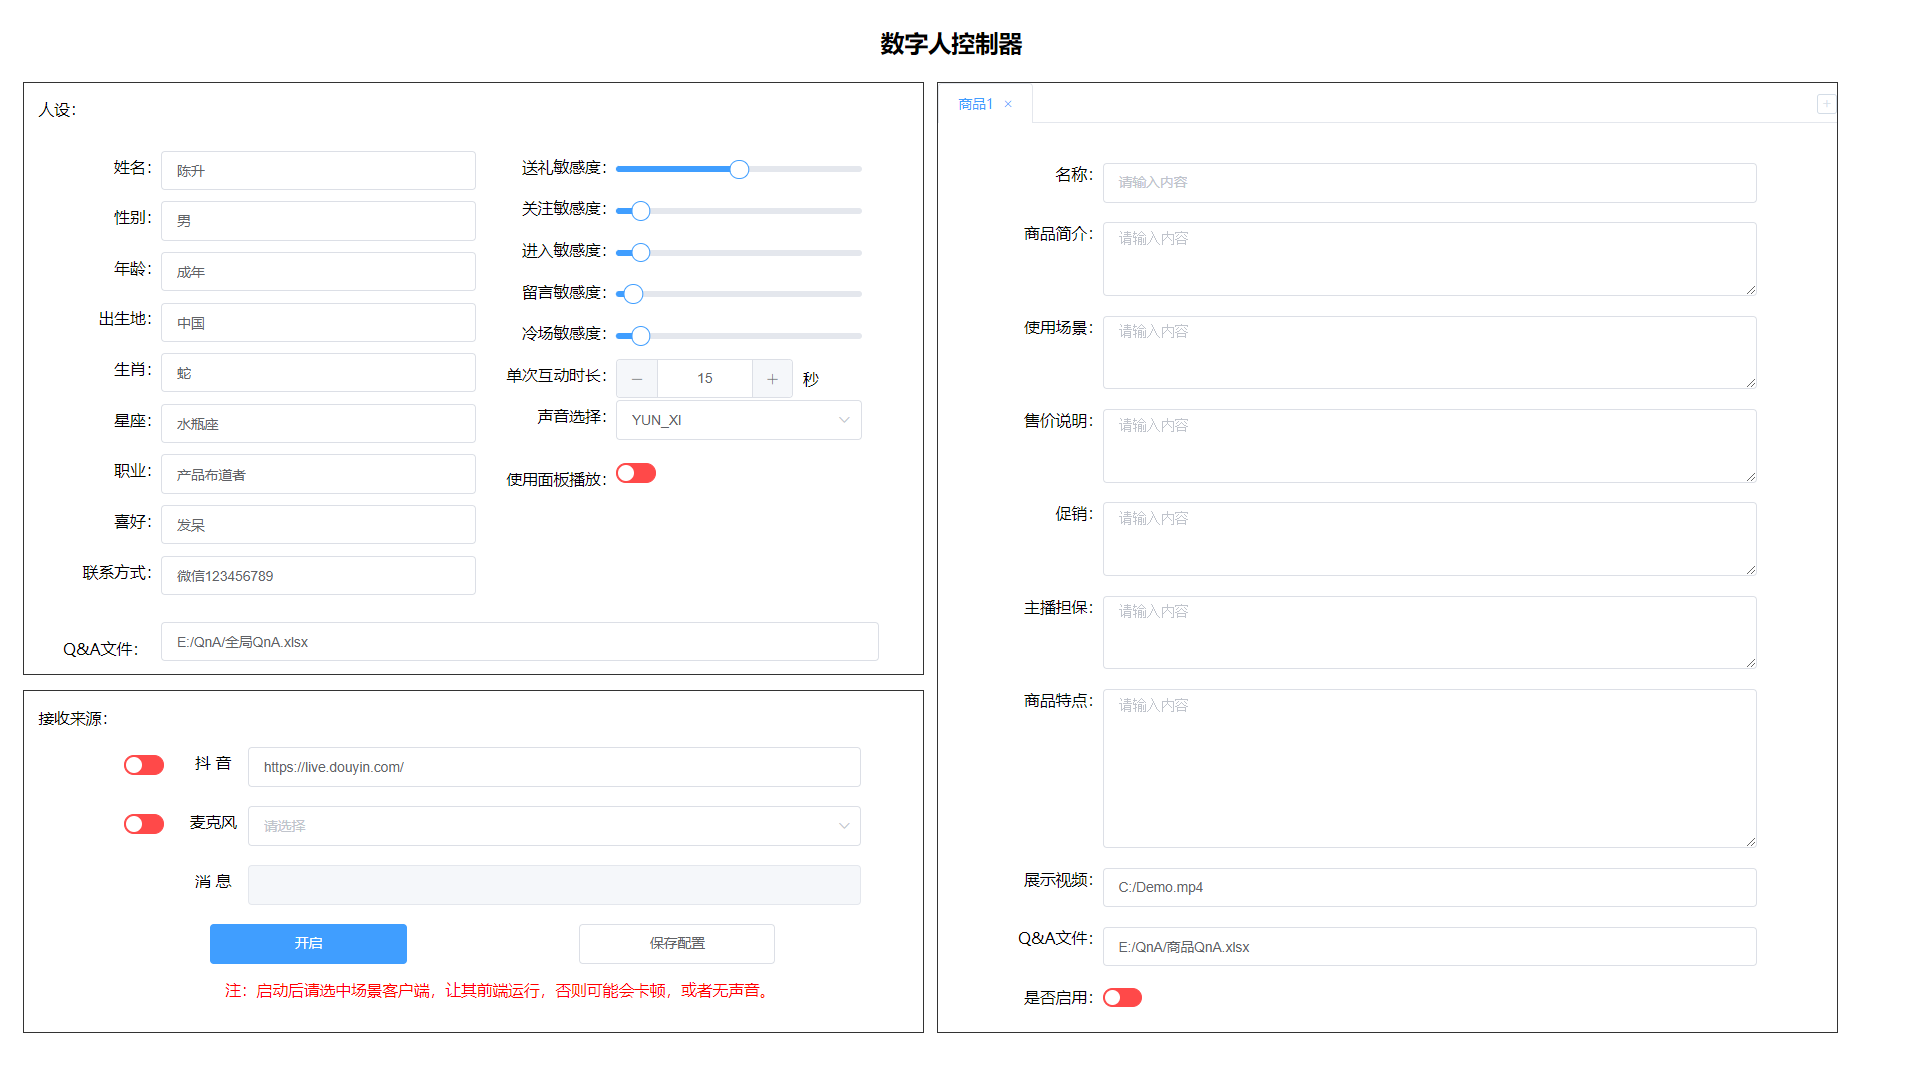
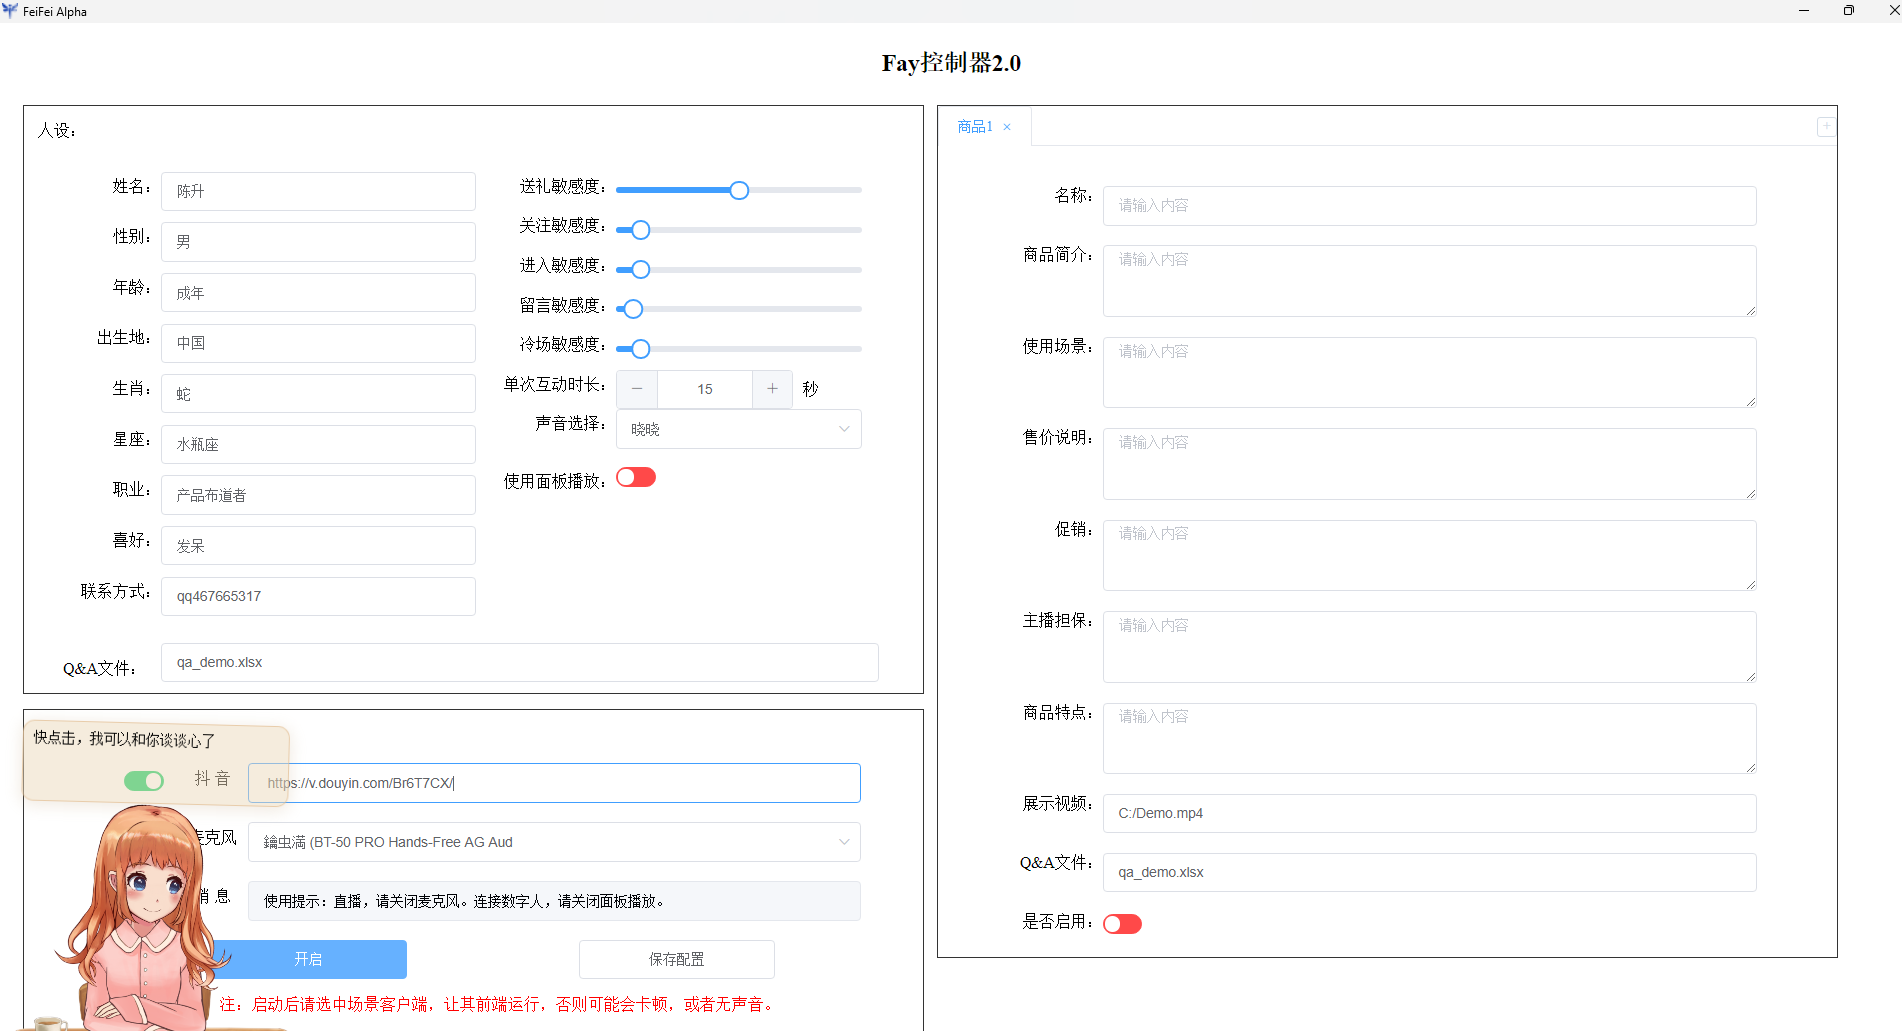
2023.02
1、集成live2d看板娘；
2、修改ngrok穿透是否开启的判断逻辑；

diff --git a/gui/static/live2d/autoload.js b/gui/static/live2d/autoload.js
@@ -1,0 +1,62 @@
+// live2d_path 参数建议使用绝对路径
+const live2d_path = "https://fastly.jsdelivr.net/gh/stevenjoezhang/live2d-widget@latest/";
+//const live2d_path = "/live2d-widget/";
+
+// 封装异步加载资源的方法
+function loadExternalResource(url, type) {
+	return new Promise((resolve, reject) => {
+		let tag;
+
+		if (type === "css") {
+			tag = document.createElement("link");
+			tag.rel = "stylesheet";
+			tag.href = url;
+		}
+		else if (type === "js") {
+			tag = document.createElement("script");
+			tag.src = url;
+		}
+		if (tag) {
+			tag.onload = () => resolve(url);
+			tag.onerror = () => reject(url);
+			document.head.appendChild(tag);
+		}
+	});
+}
+
+// 加载 waifu.css live2d.min.js waifu-tips.js
+if (screen.width >= 768) {
+	Promise.all([
+		loadExternalResource(live2d_path + "waifu.css", "css"),
+		loadExternalResource(live2d_path + "live2d.min.js", "js"),
+		loadExternalResource(live2d_path + "waifu-tips.js", "js")
+	]).then(() => {
+		// 配置选项的具体用法见 README.md
+		initWidget({
+			waifuPath:  "/static/live2d/waifu-tips.json",
+			//apiPath: "https://live2d.fghrsh.net/api/",
+			cdnPath: "https://fastly.jsdelivr.net/gh/fghrsh/live2d_api/",
+			tools: ["switch-model", "quit"]
+		});
+	});
+}
+
+console.log(`
+  く__,.ヘヽ.        /  ,ー､ 〉
+           ＼ ', !-─‐-i  /  /´
+           ／｀ｰ'       L/／｀ヽ､
+         /   ／,   /|   ,   ,       ',
+       ｲ   / /-‐/  ｉ  L_ ﾊ ヽ!   i
+        ﾚ ﾍ 7ｲ｀ﾄ   ﾚ'ｧ-ﾄ､!ハ|   |
+          !,/7 '0'     ´0iソ|    |
+          |.从"    _     ,,,, / |./    |
+          ﾚ'| i＞.､,,__  _,.イ /   .i   |
+            ﾚ'| | / k_７_/ﾚ'ヽ,  ﾊ.  |
+              | |/i 〈|/   i  ,.ﾍ |  i  |
+             .|/ /  ｉ：    ﾍ!    ＼  |
+              kヽ>､ﾊ    _,.ﾍ､    /､!
+              !'〈//｀Ｔ´', ＼ ｀'7'ｰr'
+              ﾚ'ヽL__|___i,___,ンﾚ|ノ
+                  ﾄ-,/  |___./
+                  'ｰ'    !_,.:
+`);

diff --git a/gui/templates/index.html b/gui/templates/index.html
@@ -13,6 +13,7 @@
     <!-- <link rel="stylesheet" href="./css/element.css"> -->
     <link rel="stylesheet" href="{{ url_for('static',filename='css/element.css') }}"></link>
     <link rel="stylesheet" href="https://unpkg.com/element-ui/lib/theme-chalk/index.css">
+    <script src="/static/live2d/autoload.js"></script>
 
     <title>自动商品介绍控制器</title>
 
@@ -129,7 +130,7 @@
                     </div>
                 </div>
                 <div class="left_box">
-                    <p>接收来源：</p>
+                    <p>&nbsp;</p>
                     <div class="source">
                         <ul>
                             <li class="url">
@@ -154,10 +155,10 @@
                                 <el-input v-model="panel_msg" :disabled="true"></el-input>
                             </li>
                             <li class="but">
-                                <el-button v-if="live_state == 1" type="success" style="width:200px" @click=postStopLive()>关闭（运行中）</el-button>
+                                <el-button v-if="live_state == 1" type="success" class="btn_close" style="width:200px" @click=postStopLive()>关闭（运行中）</el-button>
                                 <el-button v-else-if="live_state == 2" type="primary" plain disabled style="width:200px">正在开启...</el-button>
                                 <el-button v-else-if="live_state == 3" type="success" plain disabled style="width:200px">正在关闭...</el-button>
-                                <el-button v-else type="primary" style="width:200px" @click=postStartLive()>开启</el-button>
+                                <el-button v-else type="primary" style="width:200px" class="btn_open" @click=postStartLive()>开启</el-button>
                                 <el-button type="button" style="width:200px" @click=postData()>保存配置</el-button>
                             </li>
                             <li class="p_red">

diff --git a/gui/static/js/index.js b/gui/static/js/index.js
@@ -180,6 +180,20 @@ new Vue({
                 let panelMsg = data.panelMsg
                 if (panelMsg !== undefined) {
                     _this.panel_msg = panelMsg
+
+                    //Edit by xszyou in 2022/2/3:同步到看板娘
+                    text = panelMsg;
+                    if (panelMsg != ""){
+                        sessionStorage.setItem("waifu-text", 8);
+                        const tips = document.getElementById("waifu-tips");
+                        tips.innerHTML = text;
+                        tips.classList.add("waifu-tips-active");
+                        messageTimer = setTimeout(() => {
+                            sessionStorage.removeItem("waifu-text");
+                            tips.classList.remove("waifu-tips-active");
+                        }, 7000);
+                    }
+
                 }
             }
         },

diff --git a/fay_booter.py b/fay_booter.py
@@ -99,7 +99,7 @@ class DeviceInputListener(Recorder):
 
     def run(self):
         #启动ngork
-        if config_util.key_ngrok_cc_id is not None:
+        if not config_util.key_ngrok_cc_id:
             MyThread(target=self.start_ngrok, args=[config_util.key_ngrok_cc_id]).start()
               
         self.streamCache = stream_util.StreamCache(1024*1024*20)

diff --git a/README.md b/README.md
@@ -24,30 +24,33 @@
 
 4、【开源项目FAY——UE工程讲解】https://www.bilibili.com/video/BV1C8411P7Ac?vd_source=64cd9062f5046acba398177b62bea9ad
 
+5、m1机器安装办法（Gason提供）：https://www.zhihu.com/question/437075754
+
 
 目前最新版本是2.0。在新版本里我们提出一个全新的架构。在这个架构下每个人都可以把Fay控制器搭建在自己个人电脑上（未来，或许我们会提供终端），让你电脑成为你数字助理的载体。你的所有设备（手表、手机、眼镜、笔记本）随时可以与你的数字助理通讯，数字助理将通过电脑为你处理数字世界里的所有事情。（贾维斯？Her?）
 ![](images/20230122074644.png)
 
-2023.01
+2023.01：
 1、控制器pc内网穿透，音频输入输出设备远程直连；
 2、提供android 音频输入输出工程示例代码；
 3、提供python音频输入输出工程示例代码（远程PC、树莓派等可用）；
 4、补传1.0语音指令音乐播放模块（暂不支持远程播放）；
 5、重构及补充若干工具模块：websocket、多线程、缓冲器、音频流录制器等；
-6、修复1.x版本的多个bug。
+6、修复1.x版本的多个bug；
+7、集成看板娘。
 
-2022.12
+2022.12：
 1、上传bin目录（用于直播互动）；
 
-2022.11
+2022.11：
 1、更新抖音直播获取粉丝互动数据的xpath;
 
-2022.10.27
+2022.10.27：
 1、更新mac上的麦克风参数；
 2、解决mac上无法重启问题；
 3、上传brew安装脚本。
 
-2022.10.17
+2022.10.17：
 1、更新语音指令；
 2、补充人设语法；
 
@@ -220,7 +223,9 @@ python main.py
 
 控制器与采用 WebSocket 方式与 UE 通讯
 
-下载: [https://pan.baidu.com/s/1L6yUR5cRFuNBiuPaXcmHaQ?pwd=8s8d](https://pan.baidu.com/s/1L6yUR5cRFuNBiuPaXcmHaQ?pwd=8s8d)
+下载工程: [https://pan.baidu.com/s/1RBo2Pie6A5yTrCf1cn_Tuw?pwd=ck99](https://pan.baidu.com/s/1RBo2Pie6A5yTrCf1cn_Tuw?pwd=ck99)
+
+下载工程: [https://pan.baidu.com/s/1CsJ647uV5rS2NjQH3QT0Iw?pwd=s9s8](https://pan.baidu.com/s/1CsJ647uV5rS2NjQH3QT0Iw?pwd=s9s8)
 
 通讯地址: [`ws://127.0.0.1:10002`](ws://127.0.0.1:10002)（已接通）
 
